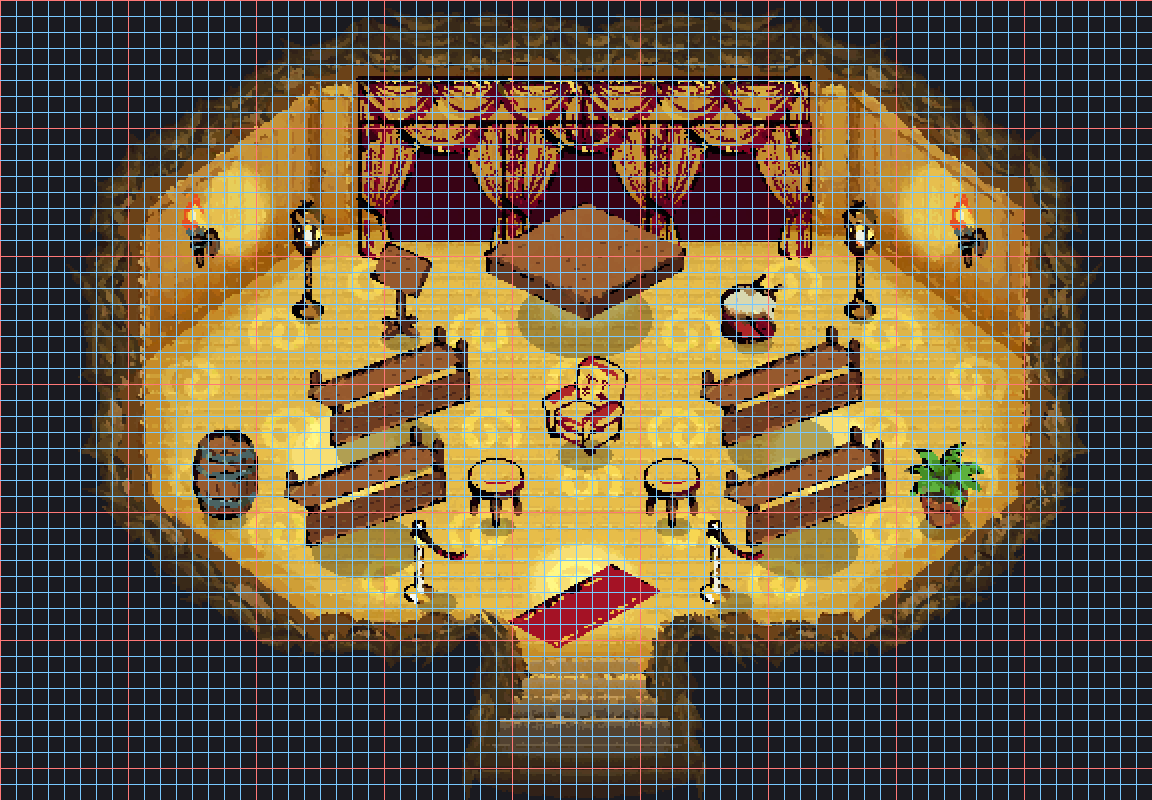
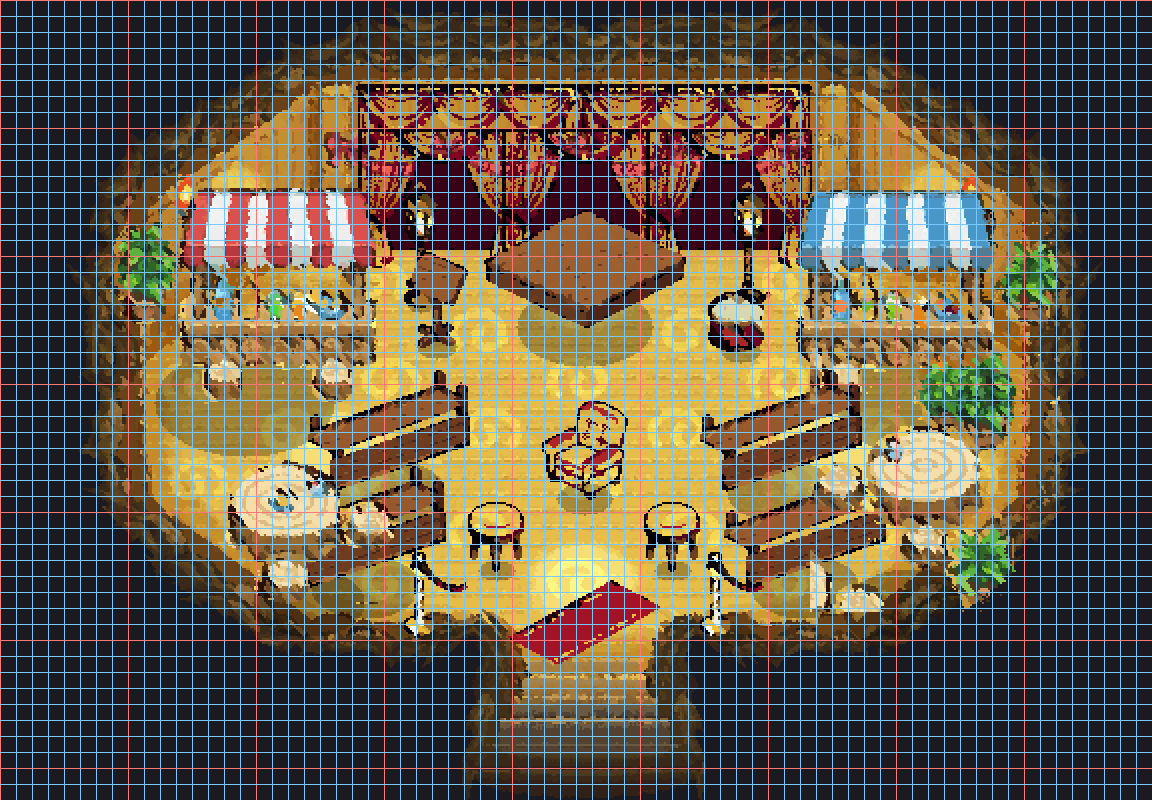
Reuse the cave cafe variant furniture in the basement

Changed region(s): [[0.0938, 0.0938, 0.9375, 0.8438]]

diff --git a/tileset_pmd/poser_scene_sous_sol.py b/tileset_pmd/poser_scene_sous_sol.py
@@ -2,10 +2,15 @@ from __future__ import annotations
 
 """Amenage le sous-sol du cafe en salle de concert privee.
 
-La coque de la salle n'est PAS generee : c'est le calque souterrain d'origine
-(`interieur/variante_caverne/`), celui a paroi rocheuse, simplement passe au
-format PMDO par `pipeline_sprite_pmdo.py`. Seuls les elements de scene sont
-generes, sur une planche d'objets detaches, comme le prescrit
+Rien de la variante caverne n'est regenere. La coque de la salle ET son
+mobilier de cafe (comptoirs a auvent raye, guirlande de fanions, tables-souches,
+panneau, caisses, plantes) viennent du calque d'origine
+`interieur/variante_caverne/`, simplement passes au format PMDO par
+`pipeline_sprite_pmdo.py`. Le sous-sol reprend donc litteralement la variante
+caverne du cafe, a laquelle on ajoute la scene.
+
+Seuls les elements specifiques au spectacle (estrade, rideaux, bancs, fauteuil,
+lampadaires) sont generes, sur une planche d'objets detaches, comme le prescrit
 `AUDIT_PIPELINE_SPRITE.md`.
 
 Layout, calque sur celui de la salle du haut : la scene occupe le fond de la
@@ -30,6 +35,22 @@ from PIL import Image, ImageOps
 RACINE = Path(__file__).resolve().parent.parent
 SALLE = RACINE / "sous_sol"
 PLANCHE = SALLE / "scene_objets_pmdo.png"
+# Le mobilier de cafe repris tel quel a la variante caverne d'origine.
+PLANCHE_CAFE = SALLE / "cafe_caverne_deco_pmdo.png"
+
+# Elements decoupes de la deco de `interieur/variante_caverne/`, par taille
+# decroissante. Ce sont les pixels d'origine, pas une regeneration.
+NOMS_CAFE = [
+    "stand_gauche",        # comptoir a auvent raye rouge
+    "stand_droit",         # comptoir a auvent raye bleu
+    "coin_plantes_droit",
+    "tables_gauche",       # tables-souches et tabourets
+    "tables_droite",
+    "panneau_caisses",     # panneau d'affichage et caisses
+    "table_centre",
+    "guirlande",           # guirlande de fanions rouges
+    "buissons_bas",
+]
 
 CADRE_W, CADRE_H = 576, 400
 
@@ -54,55 +75,63 @@ NOMS = [
 # (objet, x du centre, y du BAS) dans le cadre 576 x 400.
 # Le sol utile va de y=28 (fond) a y=320, large de ~445 px entre x=66 et x=510.
 PLAN = [
+    # --- la guirlande de fanions du cafe, en haut du mur du fond ---
+    ("guirlande", 288, 88),
     # --- le fond de scene : trois pans de rideau formant un mur de velours ---
-    ("rideau", 216, 128),
-    ("rideau", 288, 128),
-    ("rideau", 360, 128),
-    # --- la frise suspendue, par-dessus toute la largeur de la scene ---
-    ("bandeau", 232, 74),
-    ("bandeau", 344, 74),
+    ("rideau", 216, 132),
+    ("rideau", 288, 132),
+    ("rideau", 360, 132),
+    ("bandeau", 232, 78),
+    ("bandeau", 344, 78),
     # --- la scene ---
-    ("estrade", 288, 158),       # l'estrade elle-meme
-    ("pupitre", 196, 168),       # pupitre, au pied de la scene
-    ("tambour", 372, 170),       # tambour, au pied de la scene
-    # --- eclairage de scene, de part et d'autre ---
-    ("lampadaire", 150, 158),
-    ("lampadaire", 426, 158),
-    ("torche", 96, 132),
-    ("torche", 480, 132),
+    ("estrade", 288, 162),
+    ("pupitre", 214, 172),
+    ("tambour", 366, 174),
+    # --- le bar du cafe : les deux comptoirs a auvent, de part et d'autre ---
+    ("stand_gauche", 118, 200),
+    ("stand_droit", 458, 200),
+    # --- eclairage de scene ---
+    ("lampadaire", 206, 152),
+    ("lampadaire", 370, 152),
+    ("torche", 92, 122),
+    ("torche", 484, 122),
     # --- le public : deux rangees de bancs face a la scene ---
-    ("banc", 190, 222),
-    ("banc", 386, 222),
-    ("banc", 178, 272),
-    ("banc", 398, 272),
+    ("banc", 190, 244),
+    ("banc", 386, 244),
+    ("banc", 178, 292),
+    ("banc", 398, 292),
     # --- places d'honneur au centre, devant la scene ---
-    ("fauteuil", 288, 226),
-    ("tabouret", 244, 262),
-    ("tabouret", 332, 262),
-    # --- allee centrale et bords ---
-    ("tapis", 288, 322),         # tapis rouge menant a l'escalier
-    ("cordon", 214, 300),
-    ("cordon", 362, 300),
-    ("tonneau", 108, 258),
-    ("plante", 468, 262),
+    ("fauteuil", 288, 248),
+    ("tabouret", 244, 284),
+    ("tabouret", 332, 284),
+    # --- coin cafe : tables-souches et plantes de la variante caverne ---
+    ("table_centre", 150, 300),
+    ("coin_plantes_droit", 452, 304),
+    # --- allee centrale ---
+    ("tapis", 288, 330),
+    ("cordon", 214, 316),
+    ("cordon", 362, 316),
 ]
 
 # Elements adosses au mur ou suspendus : pas d'ombre portee au sol, sinon on
 # obtient une flaque sombre en plein milieu de la piece.
-SANS_OMBRE = {"bandeau", "rideau", "torche", "tapis"}
+SANS_OMBRE = {"bandeau", "rideau", "torche", "tapis", "guirlande"}
 
 OMBRE_FACTEUR = 0.72
 OMBRE_LARGEUR = 0.34
 OMBRE_HAUTEUR = 0.26
 
 
-def decouper(chemin: Path) -> dict[str, Image.Image]:
+def decouper(chemin: Path, noms: list[str] | None = None,
+             seuil: int = 120, par_taille: bool = False) -> dict[str, Image.Image]:
     """Isole chaque objet de la planche par composante connexe."""
+    noms = noms if noms is not None else NOMS
     a = np.array(Image.open(chemin).convert("RGBA"))
     m = a[..., 3] > 0
     H, W = m.shape
     seen = np.zeros_like(m)
     boites = []
+    aires: dict[tuple[int, int], int] = {}
     for y in range(H):
         for x in range(W):
             if m[y, x] and not seen[y, x]:
@@ -118,13 +147,19 @@ def decouper(chemin: Path) -> dict[str, Image.Image]:
                             if 0 <= ny < H and 0 <= nx < W and m[ny, nx] and not seen[ny, nx]:
                                 seen[ny, nx] = 1
                                 q.append((ny, nx))
-                if len(pts) > 120:
+                if len(pts) > seuil:
                     ys = [p[0] for p in pts]
                     xs = [p[1] for p in pts]
                     boites.append((min(xs), min(ys), max(xs), max(ys)))
-    boites.sort(key=lambda b: (b[1] // 40, b[0]))
+                    aires[(min(xs), min(ys))] = len(pts)
+    if par_taille:
+        # tri par nombre de pixels reels, pas par aire de boite englobante :
+        # une guirlande large et plate a une grande boite mais peu de matiere.
+        boites.sort(key=lambda b: -aires[(b[0], b[1])])
+    else:
+        boites.sort(key=lambda b: (b[1] // 40, b[0]))
     objets = {}
-    for nom, (x0, y0, x1, y1) in zip(NOMS, boites):
+    for nom, (x0, y0, x1, y1) in zip(noms, boites):
         objets[nom] = Image.fromarray(a[y0:y1 + 1, x0:x1 + 1], "RGBA")
     # Le banc est genere dossier vers le fond : le public tournerait le dos a
     # la scene. On le retourne pour qu'il regarde l'estrade.
@@ -192,7 +227,9 @@ def composer(moment: str, objets: dict[str, Image.Image]) -> None:
 
 def main() -> None:
     objets = decouper(PLANCHE)
-    print(f"{len(objets)} elements de scene decoupes\n")
+    objets.update(decouper(PLANCHE_CAFE, NOMS_CAFE, seuil=200, par_taille=True))
+    print(f"{len(objets)} elements decoupes "
+          f"({len(NOMS)} de scene + {len(NOMS_CAFE)} du cafe caverne)\n")
     manquants = {n for n, _, _ in PLAN} - set(objets)
     if manquants:
         print(f"  ATTENTION, absents de la planche : {sorted(manquants)}")

diff --git a/sous_sol/README.md b/sous_sol/README.md
@@ -6,14 +6,25 @@ tournés vers la scène.
 
 ## Provenance des pixels
 
-**La coque de la salle n'est pas une génération neuve.** C'est le calque
-souterrain d'origine, celui à paroi rocheuse fourni au début du projet
-(`interieur/variante_caverne/`), simplement remis au format PMDO. Sa géométrie,
-son sol à spirales et sa paroi de roche sont donc conservés tels quels.
+**Le sous-sol reprend littéralement la variante caverne du café.** Rien de cette
+variante n'est regénéré :
 
-Seuls les **éléments de scène** sont générés, et uniquement en planche d'objets
-détachés sur fond magenta — jamais en scène complète — conformément à la règle
-établie dans `tileset_pmd/AUDIT_PIPELINE_SPRITE.md`.
+* **la coque** — géométrie, sol à spirales, paroi de roche — vient du calque
+  `interieur/variante_caverne/interieur_sans_deco_*.png` ;
+* **le mobilier de café** — les deux comptoirs à auvent rayé rouge et bleu, la
+  guirlande de fanions, les tables-souches et leurs tabourets, les plantes en
+  pot — est extrait par différence entre les calques `avec_deco` et `sans_deco`
+  de cette même variante, puis découpé en objets réutilisables
+  (`cafe_caverne_deco_pmdo.png`).
+
+Les deux sont simplement passés au format PMDO par `pipeline_sprite_pmdo.py`.
+Ce sont donc les pixels d'origine, replacés — la cave est bien le même café,
+au sous-sol.
+
+Seuls les **éléments propres au spectacle** (estrade, rideaux de velours,
+bancs, fauteuil, lampadaires, torches, cordons) sont générés, et uniquement en
+planche d'objets détachés sur fond magenta — jamais en scène complète —
+conformément à `tileset_pmd/AUDIT_PIPELINE_SPRITE.md`.
 
 ## Fichiers
 
@@ -23,13 +34,17 @@ détachés sur fond magenta — jamais en scène complète — conformément à 
 | `sous_sol_deco_seule_{jour,nuit}.png` | les aménagements seuls, fond transparent |
 | `sous_sol_avec_deco_{jour,nuit}.png` | la composition |
 | `sous_sol_*_grille8.png` | variantes calées sur la grille 8 px |
-| `scene_objets_pmdo.png` | la planche des 14 éléments de scène |
+| `scene_objets_pmdo.png` | la planche des 14 éléments de scène générés |
+| `cafe_caverne_deco_pmdo.png` | les 9 éléments de café repris à la variante caverne |
 
 Tous partagent le **même cadre 576 × 400** (72 × 50 cellules de 8 px) et le même
 offset que la salle du haut : les calques se superposent au pixel près.
 
 ## Aménagement
 
+* **le café** — les deux comptoirs à auvent rayé de la variante caverne, placés
+  de part et d'autre de la salle, la guirlande de fanions sur le mur du fond, et
+  des tables-souches avec leurs tabourets dans les coins ;
 * **fond de scène** — trois pans de rideau de velours rouge formant un mur
   continu, surmontés d'une double frise suspendue ;
 * **la scène** — estrade de bois au centre du fond, pupitre à partition et
@@ -48,13 +63,16 @@ offset que la salle du haut : les calques se superposent au pixel près.
 |---|---|---|---|---|---|
 | salle vide (jour) | 117 | 5,9 | 100 % | 0 | 0,0 % |
 | salle vide (nuit) | 45 | 3,1 | 100 % | 0 | 0,0 % |
-| aménagée (jour) | 231 | 6,9 | 99,8 % | 0 | 0,8 % |
-| aménagée (nuit) | 188 | 4,4 | 100 % | 0 | 0,4 % |
-| planche d'éléments | 151 | 4,3 | 100 % | 0 | 0,4 % |
+| aménagée (jour) | 372 | 7,8 | 99,1 % | 0 | 1,1 % |
+| aménagée (nuit) | 333 | 5,7 | 99,8 % | 0 | 0,8 % |
+| déco café caverne | 252 | 5,8 | 99,8 % | 0 | 1,2 % |
+| planche de scène | 151 | 4,3 | 100 % | 0 | 0,4 % |
 | *étalon officiel EOS* | *147* | *4,8* | *99,0 %* | *0* | *8,3 %* |
 
 La mise au format a fait passer la coque d'origine de **80 862 à 117 couleurs**
-et de 2,7 % à 100 % de tuiles conformes, sans altérer son dessin.
+et de 2,7 % à 100 % de tuiles conformes, et le mobilier de café de **137 738 à
+252 couleurs** (41,7 % → 99,8 % de tuiles conformes), sans altérer leur dessin :
+la teinte moyenne du mur reste à 168/118/42 contre 169/118/42 à l'origine.
 
 ## Reproduire
 
